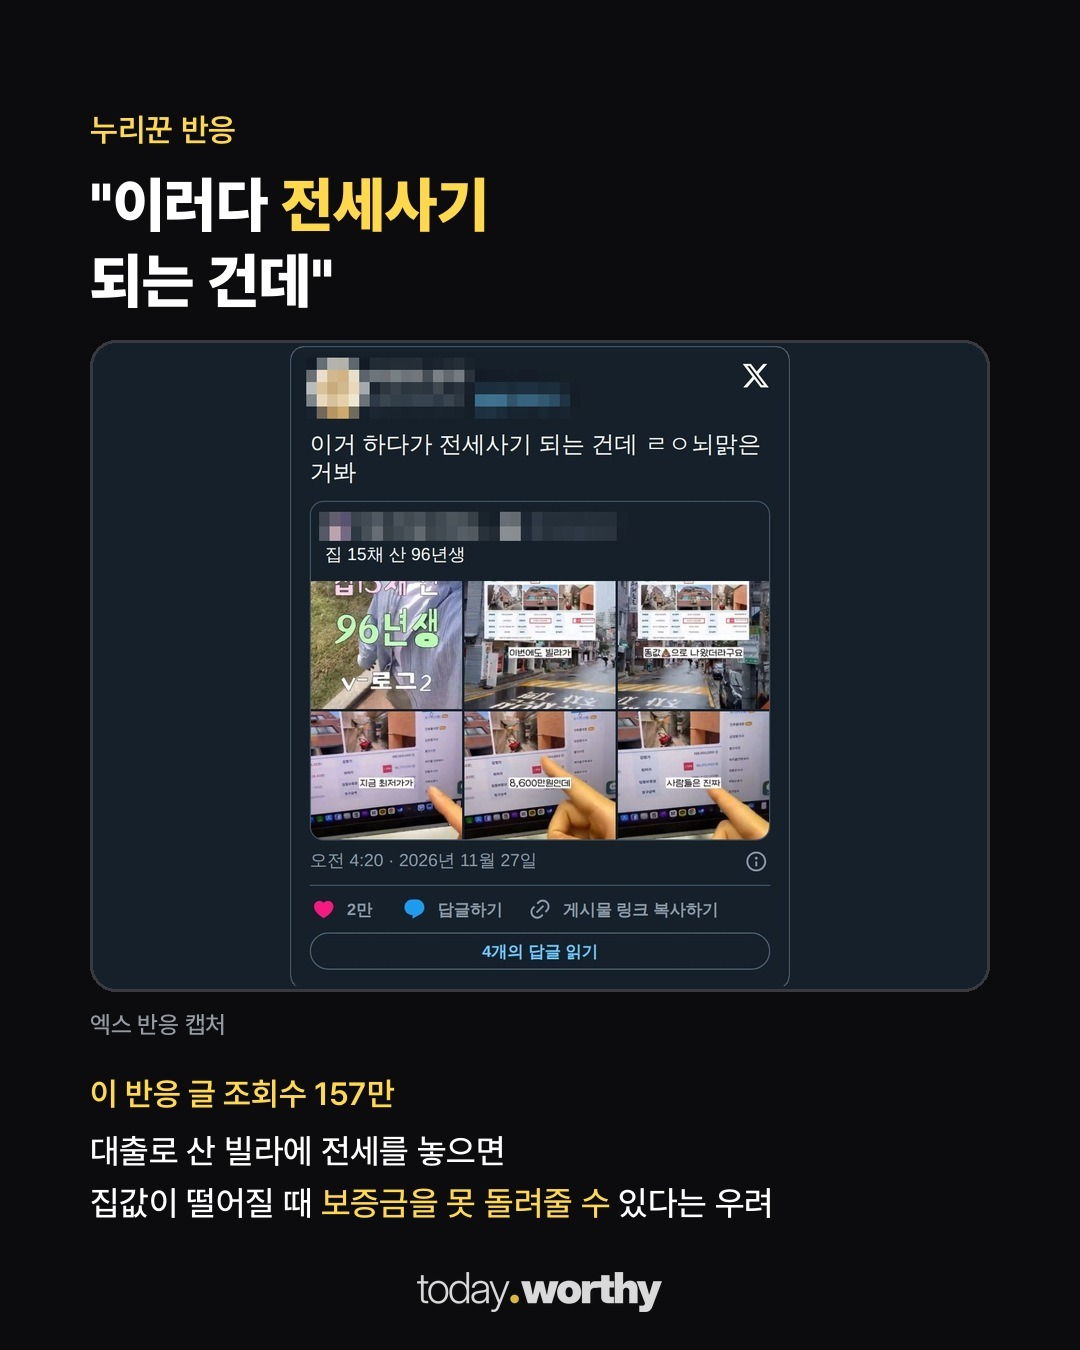
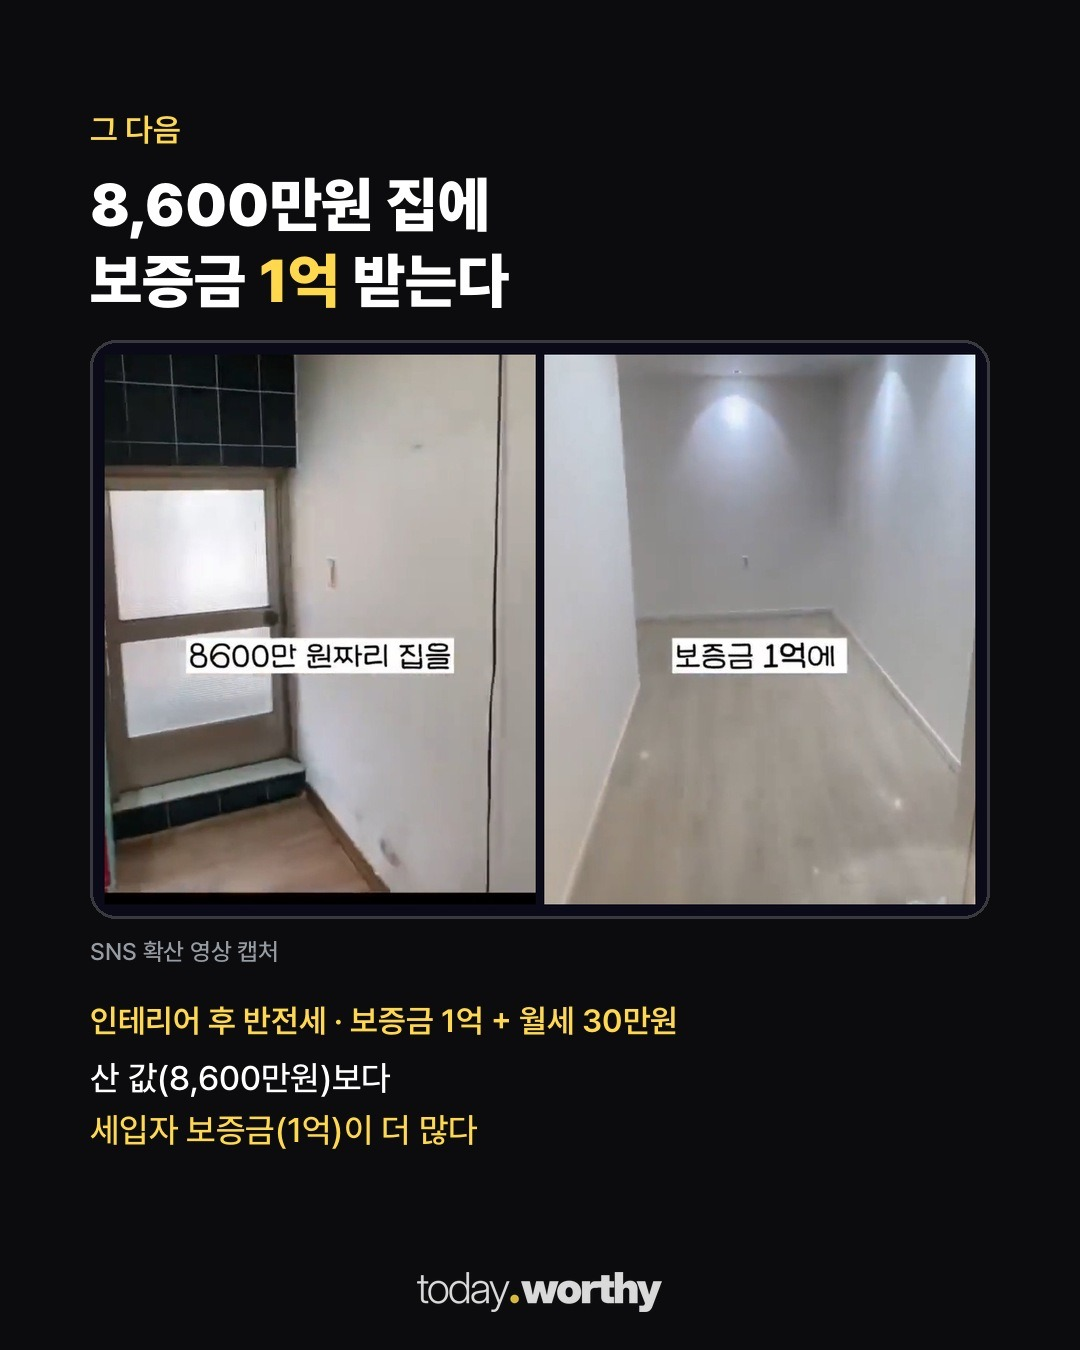
집15채: 보증금으로 빚 갚기 핵심 2장 추가
Claude-Session: https://claude.ai/code/session_01FGsw5QnWxFUsnopcB1Czie

diff --git a/media/20261128-house15/build_cards.py b/media/20261128-house15/build_cards.py
@@ -29,6 +29,8 @@ CROP = (60, 100, 860, 1120)
 side(["p3.jpg", "p5.jpg"], "cap_auction.png", CROP)
 side(["p15.jpg", "p17.jpg"], "cap_loan.png", CROP)
 side(["p12.jpg", "p19.jpg"], "cap_15.png", CROP)
+side(["r1_3.jpg", "r1_7.jpg"], "cap_jeonse.png", CROP)
+side(["r1_11.jpg", "r1_13.jpg"], "cap_zero.png", CROP)
 EXTRA = json.load(open(D / "extra.json")) if (D / "extra.json").exists() else {}
 for k, v in EXTRA.get("stitch", {}).items():
     stitch(v["src"], v["boxes"], k)
@@ -47,6 +49,14 @@ spec = [
   "title": "부동산 '15채'", "cap": str(O / "cap_15.png"),
   "caption": "SNS 확산 영상 캡처", "label": "\"시세보다 3,000만원 싸게 샀기 때문에\"",
   "lines": ["리조트 수영장 앞 독서 장면으로", "'\"영크크인 제가 15채를 모을 수 있었죠\"'"], "cap_max_h": 700},
+ {"out": str(O / "c04b.jpg"), "sub": "그 다음", "box_bg": DK,
+  "title": "8,600만원 집에\n보증금 '1억' 받는다", "cap": str(O / "cap_jeonse.png"),
+  "caption": "SNS 확산 영상 캡처", "label": "인테리어 후 반전세 · 보증금 1억 + 월세 30만원",
+  "lines": ["산 값(8,600만원)보다", "'세입자 보증금(1억)이 더 많다'"], "cap_max_h": 700},
+ {"out": str(O / "c04c.jpg"), "sub": "핵심은 이것", "box_bg": DK,
+  "title": "보증금으로 빚 갚으면\n내 돈 '0원'", "cap": str(O / "cap_zero.png"),
+  "caption": "SNS 확산 영상 캡처", "label": "\"매달 월세 600만원을(순수익) 받고 있답니다\"",
+  "lines": ["세입자한테 받은 보증금 1억으로 빌린 돈을 갚는 구조", "\"세입자들도 '보증보험 들어놓고' 안전하게 살 수 있어서\""], "cap_max_h": 700},
 ]
 spec += EXTRA.get("cards", [])
 for s in spec:
